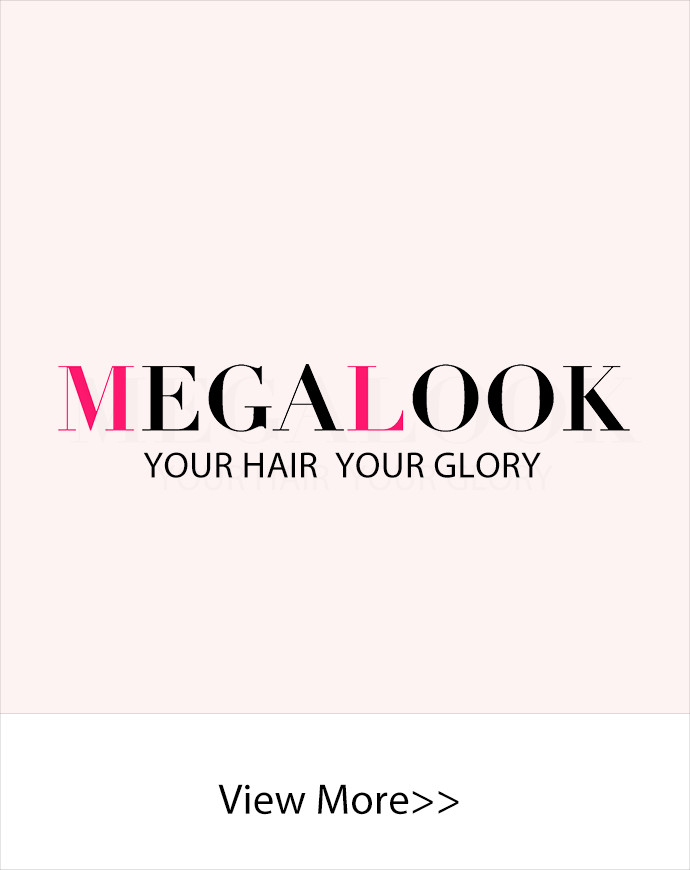
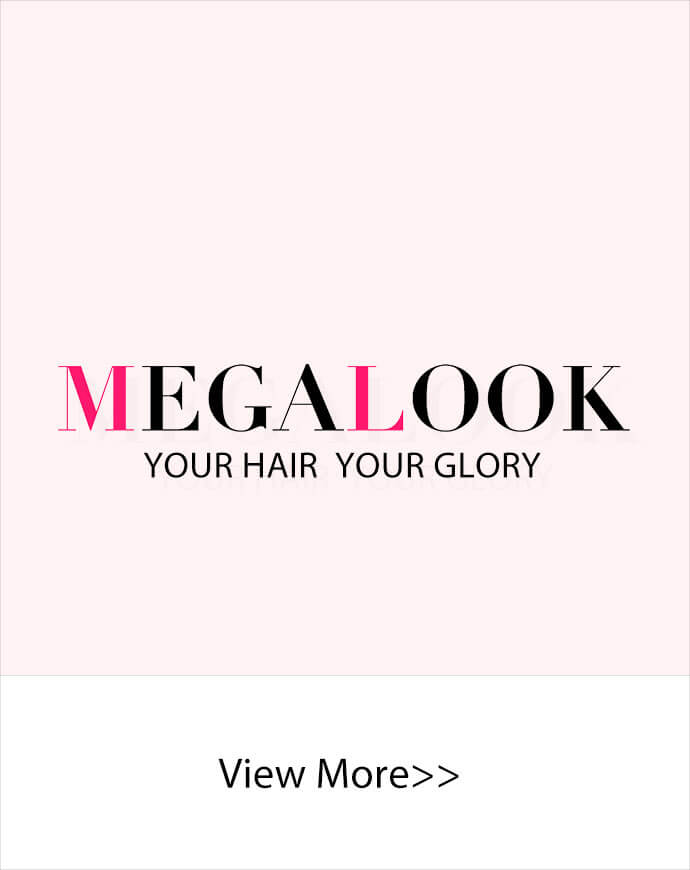
PC端手机端调整

diff --git a/src/main/webapp/static/pc/css/new.css b/src/main/webapp/static/pc/css/new.css
@@ -431,7 +431,7 @@ p.error_tips{display: none; position: absolute;font-size: 12px; top: 30px; right
 .morelink{position:absolute;top: 0; left: 0;width: 100%; height: 100%; z-index: 2; display: block;font-size:30px; background:url(../../pc/img/more.jpg) no-repeat; background-size:100% 100%; color: #fff;font-weight: 600;}
 .last_top img{width: 100%; opacity: 0;}
 .last_new img{width: 100%; opacity: 0;}
-.word-desc{height:102px;}
+.word-desc{margin: .5em;}
 /***********************/
 .hot_box_product .swiper-slide .product-item{width: 100%;}
 .loading{display: none; width: 100%; height: 100%; position: fixed; top: 0;left: 0; background: rgba(255,255,255,.7);z-index: 9999;}

diff --git a/src/main/webapp/static/m/css/wapindex.css b/src/main/webapp/static/m/css/wapindex.css
@@ -94,7 +94,7 @@ textarea { outline:none; resize:none; ;overflow:auto;border:none;background: tra
 .morelink{position:absolute;top: 0; left: 0;width: 100%; height: 100%; z-index: 2; display: block;font-size:30px; background:url(../../pc/img/more.jpg) no-repeat; background-size:100% 100%; color: #fff;font-weight: 600;}
 .last_top img{width: 100%; height: 100%; opacity: 0;}
 .last_new img{width: 100%; height: 100%; opacity: 0;}
-.word-desc{height:93px;}
+.word-desc{margin: 5%;}
 .new_box_product_cont .swiper-slide .product-item{transform:scale(1)}
 .hot_box_product_cont .swiper-slide .product-item{transform: scale(1);}
 .product-img{height: auto;}
